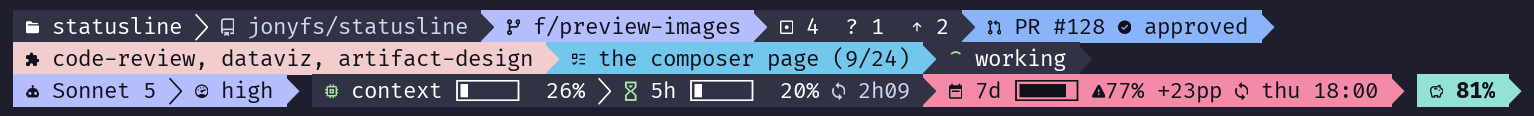
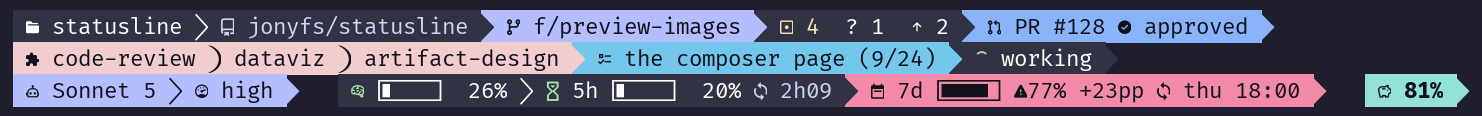
docs(054): colour meanings, a blocked-update glyph, images, pill fit test
The constitution (8.6.2), ROLE comments and doctor legend name the
colours the owner approved. A blocked update keeps the download glyph.
Pill fit is tested at four widths. Bar images regenerated. 1.51.1.

Claude-Session: https://claude.ai/code/session_01MXsTrnstgaSphRdWat5ehD

Changed region(s): [[0.0, 0.0776, 0.9933, 0.931], [0.6829, 0.3621, 0.7449, 0.3879], [0.1862, 0.4138, 0.2173, 0.4397]]

diff --git a/src/colourRoles.js b/src/colourRoles.js
@@ -12,14 +12,14 @@
 /** Role name to the one token that carries it. */
 export const ROLE = {
   critical: "red", // the critical band, merge conflicts, a failed run's icon
-  attention: "peach", // the warn band, allow-all, gates, a forecast limit
-  modified: "yellow", // icon only: CI running, a warm cache closing
+  attention: "peach", // the warn band, allow-all, gates, a forecast limit, a warm cache closing (icon)
+  modified: "yellow", // CI running (icon), the modified file count (text)
   healthy: "green", // icon only: passed, working, added, a gauge in the ok band
   merged: "mauve", // a pull request that was merged
   identity: "lavender", // the branch and the model
   open: "blue", // a pull request that is open
   money: "teal", // spend, credits, rtk savings
-  cold: "sapphire", // a cold cache, todo
+  cold: "sapphire", // a cold cache, todo, commits behind upstream (text)
   skills: "flamingo", // every skill alike
   neutral: "surface0", // the fill of everything that is only state
 };
@@ -69,14 +69,14 @@ export const SEGMENT_COLOURS = {
 /** The legend `doctor --explain` prints: role, token and the one thing it means. */
 export const LEGEND = [
   ["critical", "a gauge in its critical band, merge conflicts"],
-  ["attention", "a gauge in its warn band, allow-all, gates, a forecast limit"],
-  ["modified", "icon only: CI running, a cache about to go cold"],
-  ["healthy", "icon only: passed, working, added, a gauge with room"],
+  ["attention", "a gauge in its warn band, allow-all, gates, a forecast limit, a cache about to go cold"],
+  ["modified", "CI running, the modified file count"],
+  ["healthy", "passed, working, the staged file count, a gauge with room"],
   ["merged", "a pull request that was merged"],
   ["identity", "the branch and the model"],
   ["open", "a pull request that is open"],
   ["money", "spend, credits, rtk savings"],
-  ["cold", "a cold prompt cache, todo"],
+  ["cold", "a cold prompt cache, todo, commits behind"],
   ["skills", "every skill, alike"],
   ["neutral", "plain state: directory, repository, working tree, healthy gauges"],
 ];

diff --git a/scripts/tests/guide-gaps.test.js b/scripts/tests/guide-gaps.test.js
@@ -2,6 +2,7 @@ import assert from "node:assert/strict";
 import { test } from "../test-harness.js";
 import { GLYPHS, renderPayload, renderReadings, gather } from "../../src/render.js";
 import { renderTaskRow } from "../../src/taskRows.js";
+import { displayWidth } from "../../src/theme.js";
 import { gitSources, fullPayload } from "./fixtures/sources.js";
 import { PAYLOAD, SOURCES, FIXED_NOW, RENDER_OPTIONS } from "../composer-fixture.js";
 
@@ -160,4 +161,21 @@ await test("the tree counts keep their own colours: modified, added, behind (sec
   assert.ok(raw.includes(`${seq(249, 226, 175)}${G.modified}`), "modified in yellow");
   assert.ok(raw.includes(`${seq(166, 227, 161)}${G.added}`), "added in green");
   assert.ok(raw.includes(`${seq(116, 199, 236)}${G.pull}`), "behind in sapphire");
+});
+
+await test("a blocked update draws its own glyph, not the waiting one", () => {
+  for (const tier of ["nerd", "emoji", "plain"]) assert.ok(GLYPHS[tier].updateBlocked, tier);
+  assert.notEqual(GLYPHS.nerd.updateBlocked, GLYPHS.nerd.updateReady);
+});
+
+await test("the pill's trailing column is counted: no line is wider than the window", () => {
+  const now = FIXED_NOW * 1000;
+  withEnv({ CLAUDE_STATUSLINE_SEPARATOR: "round" }, () => {
+    for (const width of [60, 80, 120, 200]) {
+      const out = strip(
+        renderReadings(gather(PAYLOAD, { ...SOURCES }, { now }), PAYLOAD, { ...RENDER_OPTIONS, maxWidth: width, maxHeight: 40, trailingRows: false })
+      );
+      for (const line of out.split("\n")) assert.ok(displayWidth(line) <= width, `${width}: ${displayWidth(line)} columns in "${line.slice(0, 40)}"`);
+    }
+  });
 });

diff --git a/src/render.js b/src/render.js
@@ -323,6 +323,7 @@ export const GLYPHS = {
     cacheWarmLow: NF_HOURGLASS_EMPTY,
     cacheCold: NF_SNOWFLAKE,
     updateReady: NF_DOWNLOAD,
+    updateBlocked: "\u{F01DA}",   // nf-md-download: the update cannot go in
     updateDone: NF_UPDATED,
     vim: NF_VIM,
     fast: NF_SPEEDOMETER,
@@ -404,6 +405,7 @@ export const GLYPHS = {
     cacheWarmLow: "\u231B",      // ⌛
     cacheCold: "\u{1F9CA}",      // 🧊
     updateReady: "\u{1F195}",     // 🆕
+    updateBlocked: "\u23EC",      // ⏬
     updateDone: "\u{1F680}",      // 🚀
     vim: "\u{1F524}",            // 🔤
     fast: "\u{1F407}",           // 🐇
@@ -517,6 +519,7 @@ export const GLYPHS = {
     cacheCold: "\u2744",  // ❄
     // Both East Asian Narrow, and not the doubled arrows push and pull use.
     updateReady: "\u2913", // ⤓
+    updateBlocked: "\u2913",
     updateDone: "\u2912",  // ⤒
     vim: "\u2328",        // ⌨
     fast: "\u21F6",       // ⇶ three arrows
@@ -1433,7 +1436,7 @@ export function renderReadings(
   // the channel is identity; the icon and the words say which state it is.
   const update = shows("update") ? readings.update?.value : null;
   if (update?.text) {
-    const icon = update.state === "updated" ? g.updateDone : g.updateReady;
+    const icon = update.state === "updated" ? g.updateDone : update.state === "blocked" ? g.updateBlocked : g.updateReady;
     // At the right edge of the line, and the first chip to go. Its words are
     // the first thing it gives up, which leaves the icon: the state is the
     // glyph, and the sentence is for a line with room (specs/045).

diff --git a/scripts/extract-glyphs.py b/scripts/extract-glyphs.py
@@ -119,7 +119,7 @@ WANTED = {
                        # 2026-10-06, draws md-progress_download
     "F097F": 0xF097F,  # nf-md-lock_clock: a git gate waiting for gates.lock
     "F099E": 0xF099E,  # nf-md-shield_off: Copilot's allow-all
-    "F01DA": 0xF01DA,  # nf-md-download: an update ready, blocked or failed
+    "F01DA": 0xF01DA,  # nf-md-download: an update blocked
     "F0737": 0xF0737,  # nf-md-arrow_up_bold: the statusline updated. F0CE0,
                        # listed as an up arrow in a circle, points right
     # Animation frames (feature 003). Each was rendered and looked at: the

diff --git a/.specify/memory/constitution.md b/.specify/memory/constitution.md
@@ -2,7 +2,11 @@
 
 <!--
 Sync Impact Report:
-- Version: 8.6.1 (X clarified on 2026-10-12: PATCH. The emoji rejection list gains the shield
+- Version: 8.6.2 (I clarified on 2026-10-12: PATCH. The colour budget names three uses the owner
+  approved the same day: the modified, staged and behind counts keep their own colours in the
+  working-tree chip, and the closing warm-cache icon is peach. No new role. See
+  specs/054-guide-gaps/.)
+- Previously, version 8.6.1 (X clarified on 2026-10-12: PATCH. The emoji rejection list gains the shield
   and the label, which the review's section 5.4 names and the first reading left out. No rule
   changes. See specs/052-review-round-two/.)
 - Previously, version 8.6.0 (I and X amended on 2026-10-12: MINOR, review of features 039 to 050. The
@@ -277,14 +281,15 @@ reference — not a vague "Starship-like" aspiration:
   green → sapphire → lavender progression, which gave one colour several roles.
   "Background" is a chip's fill; "icon" is the colour of the glyph alone on a neutral chip.
   - `red`: background of the critical band and of merge conflicts.
-  - `peach`: background of the attention band, allow-all, and "your turn".
-  - `yellow`: icon only, for modified and CI running.
-  - `green`: icon only, for passed, healthy and added.
+  - `peach`: background of the attention band, allow-all, and "your turn"; the icon of a warm
+    cache that is about to close.
+  - `yellow`: icon only, for CI running; the text of the modified file count.
+  - `green`: icon only, for passed and healthy; the text of the staged file count.
   - `mauve`: pull request merged.
   - `lavender`: identity, the branch and the model.
   - `blue`: pull request open.
   - `teal`: money and savings, spend, credits and rtk.
-  - `sapphire`: cold and late, a cold cache, behind, todo.
+  - `sapphire`: cold and late, a cold cache, todo; the text of the behind count.
   - `flamingo`: skills, all of them alike.
   - `surface0`: the neutral fill of every healthy gauge, the directory and repository chips and
     the working-tree state.
@@ -904,4 +909,4 @@ Claude settings location: `~/.claude/settings.json` or `~/.claude/settings.local
 
 **Repository State**: This constitution supersedes all other project guidelines. When in doubt, refer to Core Principles I–XII. Runtime integration guidance lives in `README.md` (user-facing) and `.claude/CLAUDE.md` (developer-facing).
 
-**Version**: 8.6.1 | **Ratified**: 2026-08-23 | **Last Amended**: 2026-10-12
+**Version**: 8.6.2 | **Ratified**: 2026-08-23 | **Last Amended**: 2026-10-12

diff --git a/README.md b/README.md
@@ -1516,7 +1516,7 @@ uses GitHub already knows; Material Design and Devicon for the rest.
 | `nf-md-piggy_bank` | `U+F1679` | rtk, what it saves |
 | `nf-md-wallet` | `U+F0584` | the spend limit |
 | `nf-md-timer_sand_full` / `_half` / `_empty` and `nf-md-snowflake` | `U+F078C` / `U+F051F` / `U+F06AD` and `U+F0717` | the prompt cache: warm with most, half and the last third of its life left, and cold |
-| `nf-md-new_box` / `nf-md-arrow_up_bold` | `U+F0394` / `U+F0737` | an update waiting, and one applied |
+| `nf-md-new_box` / `nf-md-download` / `nf-md-arrow_up_bold` | `U+F0394` / `U+F01DA` / `U+F0737` | an update waiting, an update blocked, and one applied |
 | `nf-custom-vim` | `U+E62B` | the vim mode, while vim mode is on |
 | `nf-md-lightning_bolt` | `U+F140B` | fast mode, while it is on |
 
@@ -1592,6 +1592,10 @@ listed as "stopwatch" and draws three flat bars; `F0BE` is listed as
 six were wrong.
 
 ![The adopted glyphs, and the ones whose names lied](docs/glyph-evidence.png)
+
+Feature 054 replaced the CI, gate, update, todo, context and model glyphs with the guide's
+section 5.3 rows and checked their names against the font's own table; its proof sheet is
+[`specs/054-guide-gaps/glyph-evidence.png`](specs/054-guide-gaps/glyph-evidence.png).
 
 Without a Nerd Font, `CLAUDE_STATUSLINE_ASCII=1` replaces the whole set at
 once, glyphs and Powerline separators together. Every glyph the bar can emit
